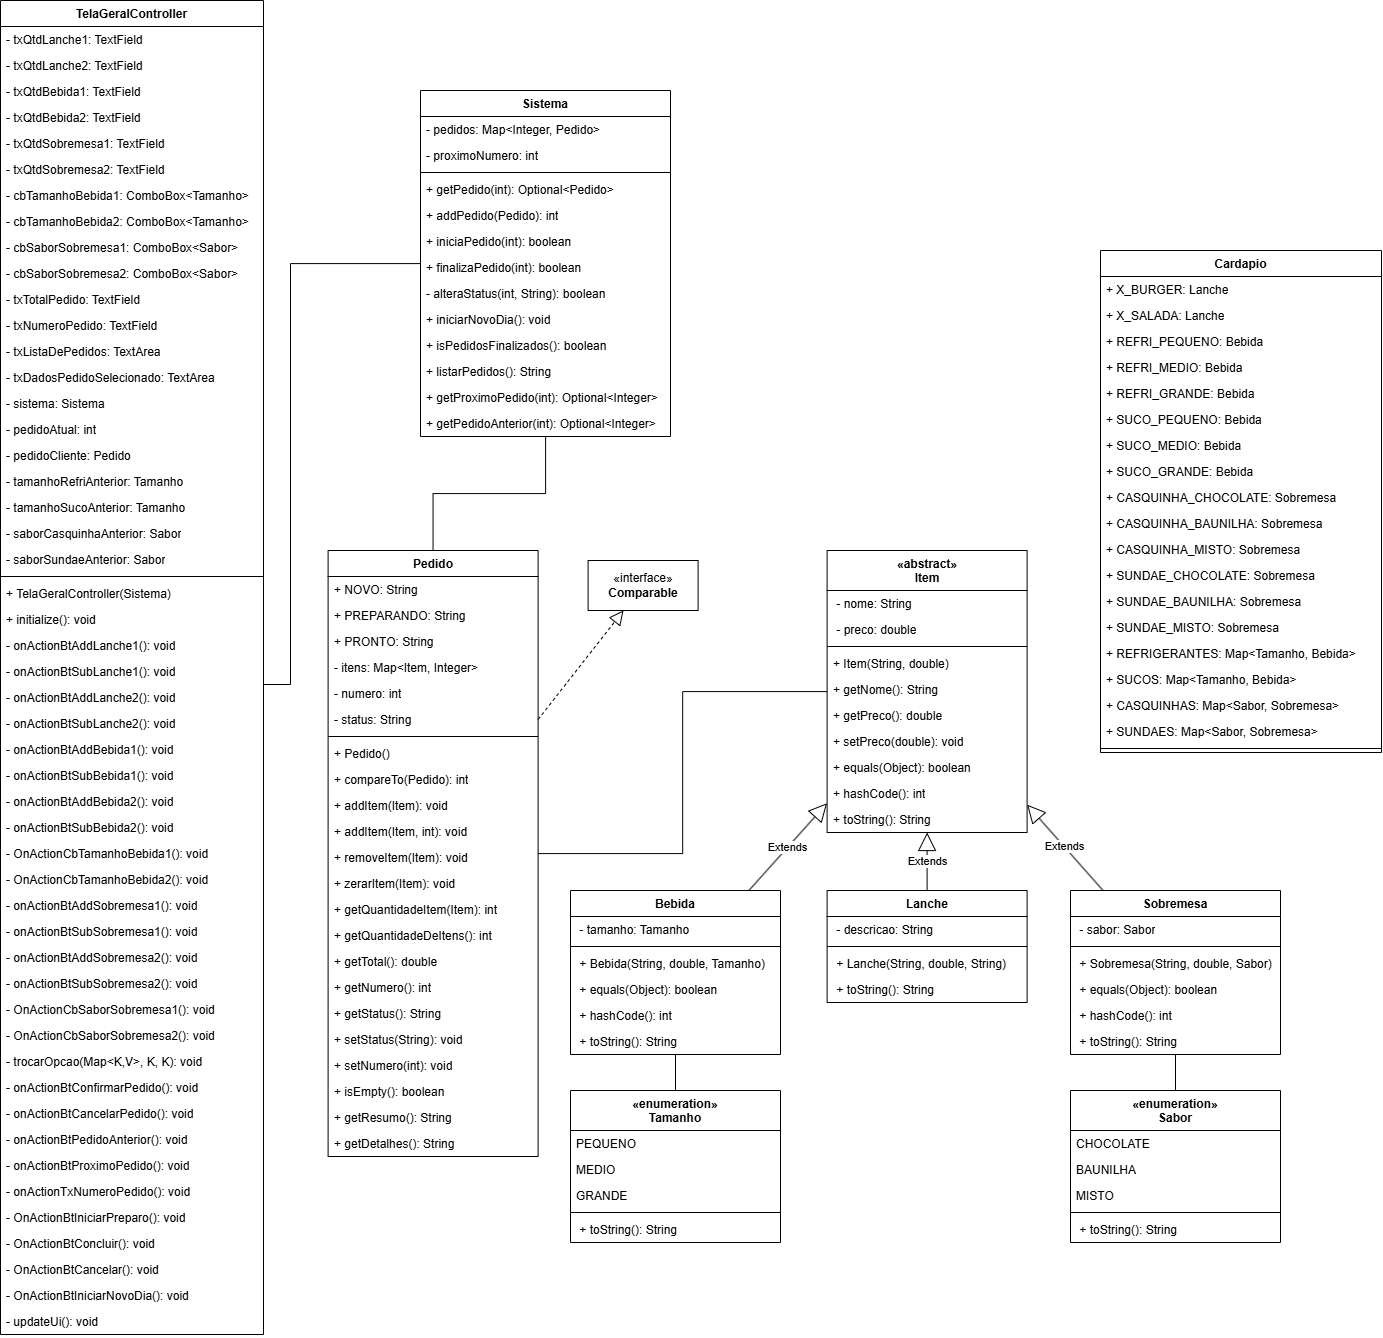
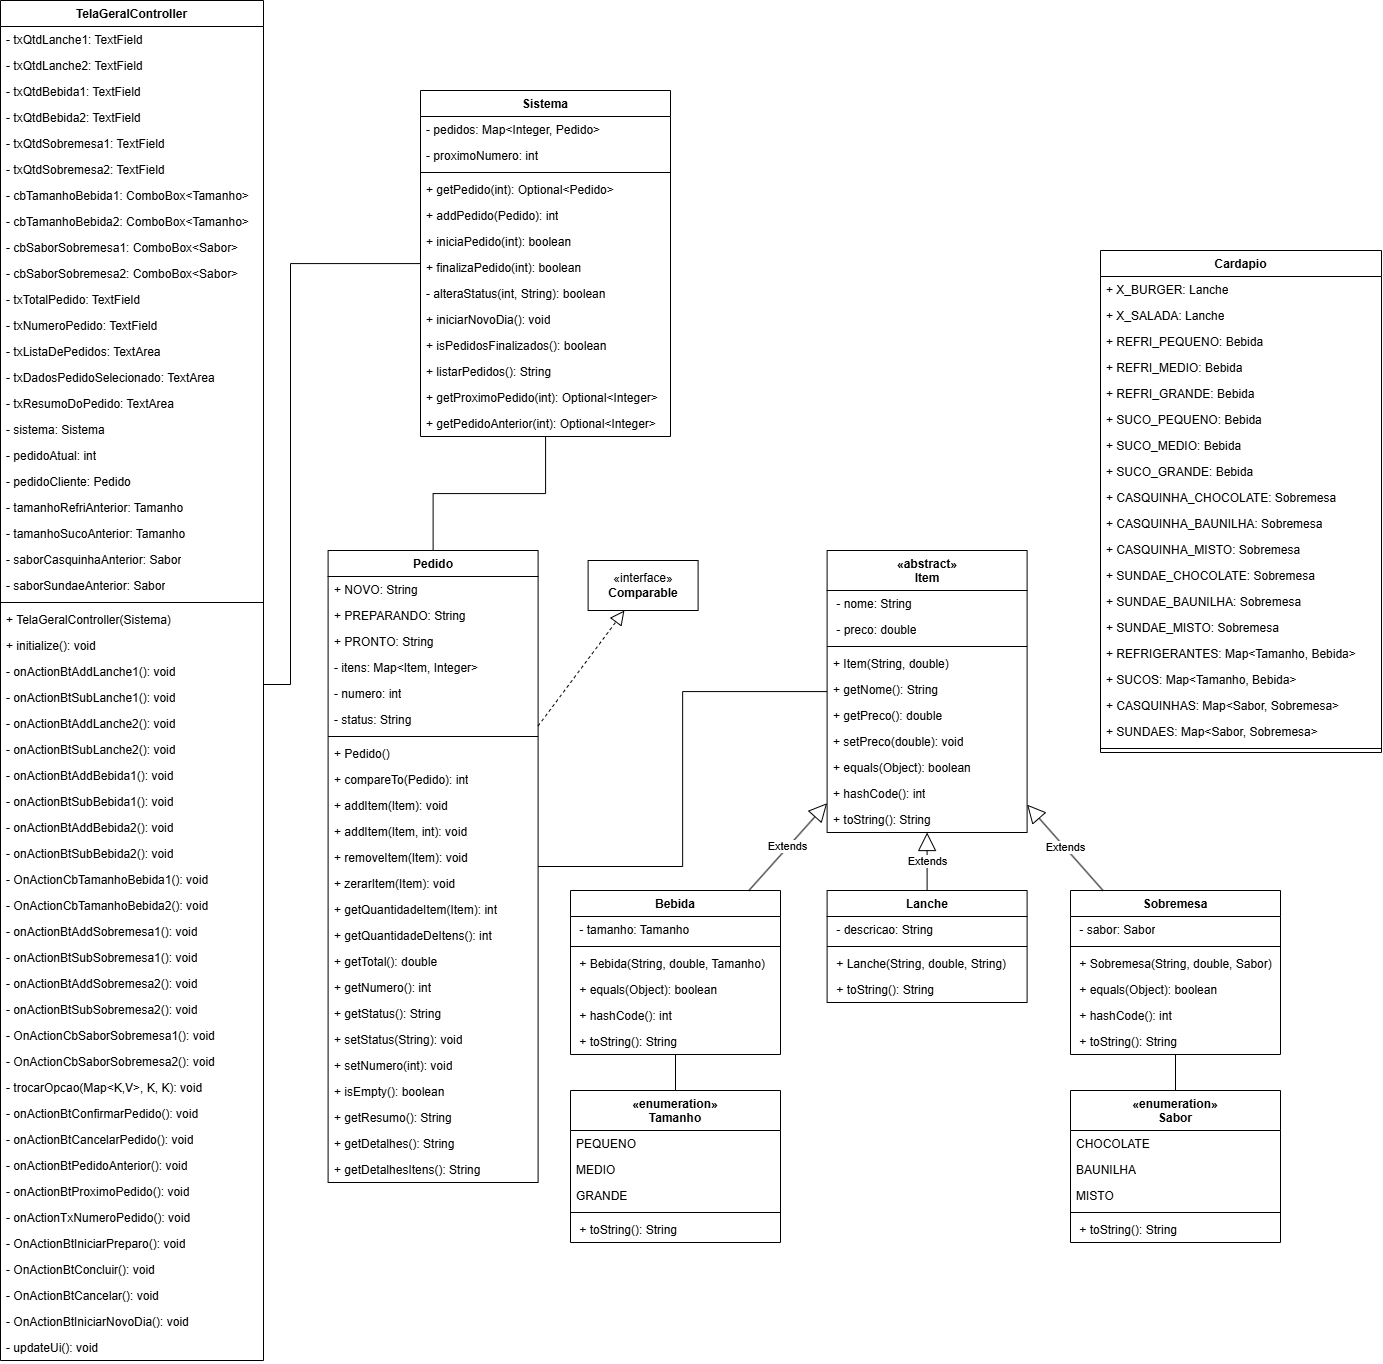
Add resumo dos itens do pedido

diff --git a/src/main/java/com/josuesch/model/Pedido.java b/src/main/java/com/josuesch/model/Pedido.java
@@ -109,12 +109,15 @@ public class Pedido implements Comparable<Pedido>{
                 status,
                 getQuantidadeDeItens(),
                 getTotal(),
-                itens.entrySet().stream()
-                        .map(item -> String.format(
-                                "%3d x %s",
-                                item.getValue(),
-                                item.getKey()))
-                        .collect(Collectors.joining("\n"))
+                getDetalhesItens()
         );
+    }
+    public String getDetalhesItens() {
+        return itens.entrySet().stream()
+                .map(item -> String.format(
+                        "%3d x %s",
+                        item.getValue(),
+                        item.getKey()))
+                .collect(Collectors.joining("\n"));
     }
 }

diff --git a/src/main/java/com/josuesch/controller/TelaGeralController.java b/src/main/java/com/josuesch/controller/TelaGeralController.java
@@ -45,6 +45,8 @@ public class TelaGeralController {
     private TextArea txListaDePedidos;
     @FXML
     private TextArea txDadosPedidoSelecionado;
+    @FXML
+    private TextArea txResumoDoPedido;
 
     private final Sistema sistema;
 
@@ -342,6 +344,7 @@ public class TelaGeralController {
         txQtdSobremesa2.setText(Integer.toString(pedidoCliente.getQuantidadeItem(SUNDAES.get(cbSaborSobremesa2.getValue()))));
         txListaDePedidos.setText(sistema.listarPedidos());
 
+        txResumoDoPedido.setText(pedidoCliente.getDetalhesItens());
         txTotalPedido.setText(String.format("%.2f",pedidoCliente.getTotal()));
 
         txNumeroPedido.setText(pedidoAtual > 0? Integer.toString(pedidoAtual): "");